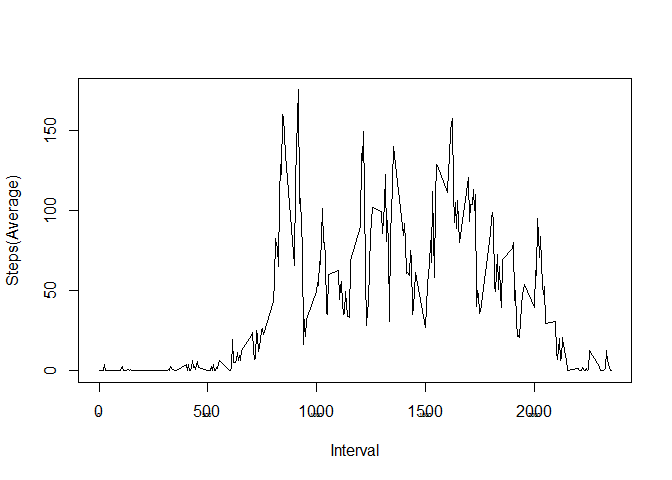
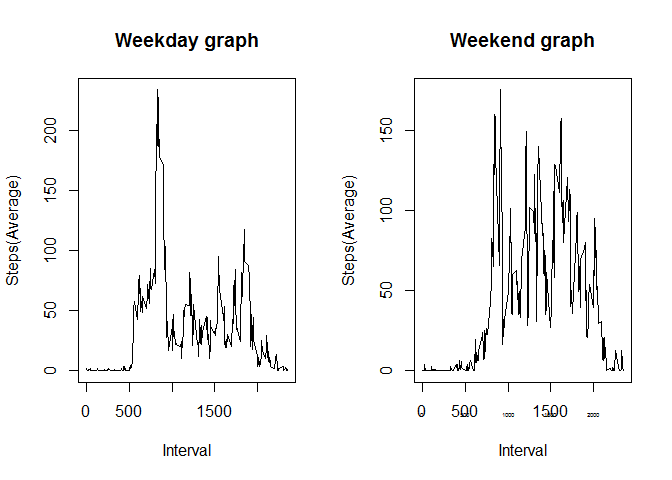
second commit
changes

diff --git a/PA1_template.html b/PA1_template.html
@@ -80,7 +80,7 @@ names(summary) &lt;- c(&quot;    Stat    &quot;, &quot;    Value    &quot;);
 xt&lt;-xtable(summary);
 print(xt, type=&quot;html&quot;)</code></pre>
 <!-- html table generated in R 3.1.2 by xtable 1.7-4 package -->
-<!-- Mon Jan 19 05:38:16 2015 -->
+<!-- Mon Jan 19 05:55:35 2015 -->
 <table border="1">
 <tr> <th>  </th> <th>     
 Stat
@@ -111,8 +111,8 @@ names(activityintervalmean) =  c(&quot;Interval&quot;,&quot;Steps&quot;);
 plot(activityintervalmean$Interval, activityintervalmean$Steps, type = &quot;l&quot;, xlab=&quot;Interval&quot;, ylab= &quot;Steps(Average)&quot;);
 axis(side=1, cex.axis=0.35)</code></pre>
[1 lines of base64/hex data omitted]
-<div id="interval-with-the-highest-average-number-of-steps" class="section level3">
-<h3>Interval with the highest average number of steps</h3>
+<div id="minute-interval-with-the-highest-number-of-steps" class="section level3">
+<h3>5 minute Interval with the highest number of steps</h3>
 <pre class="r"><code>activityintervalmean$Interval[activityintervalmean$Steps==max(activityintervalmean$Steps)]</code></pre>
 <p>[1] 835</p>
 </div>
@@ -122,7 +122,7 @@ axis(side=1, cex.axis=0.35)</code></pre>
 <div id="number-of-records-with-missing-values-is" class="section level3">
 <h3>Number of records with missing values is</h3>
 <pre class="r"><code>sum(is.na(activitydat$steps));</code></pre>
-<p>[1] 2304</p>
+<p>[1] 2304 All NA values are replaced using the average for that time interval</p>
 </div>
 <div id="replace-all-the-na-values-with-intereval-mean.-count-na-values-again" class="section level3">
 <h3>Replace all the NA values with intereval mean. Count NA values again</h3>
@@ -154,7 +154,7 @@ names(summary1) &lt;- c(&quot;     Stat1    &quot;, &quot;    Value1    &quot;);
 xt1&lt;-xtable(summary1);
 print(xt1, type=&quot;html&quot;)</code></pre>
 <!-- html table generated in R 3.1.2 by xtable 1.7-4 package -->
-<!-- Mon Jan 19 05:38:21 2015 -->
+<!-- Mon Jan 19 05:55:38 2015 -->
 <table border="1">
 <tr> <th>  </th> <th>      
 Stat1
@@ -193,11 +193,18 @@ axis(side=1, cex.axis=0.35)</code></pre>
 <pre class="r"><code>activitydatWE &lt;- subset(activitydat, activitydat$weekday == &quot;WEEKEND&quot;);
 activityintervalmeanWE &lt;- aggregate(activitydatWE[,1], list(activitydatWE$interval), mean, na.rm=TRUE);
 names(activityintervalmeanWE) =  c(&quot;Interval&quot;,&quot;Steps&quot;);
+par(mfrow=c(1,2)) 
+
+print(&quot;Week day graph&quot;);</code></pre>
+<p>[1] “Week day graph”</p>
+<pre class="r"><code>plot(activityintervalmeanWD$Interval, activityintervalmeanWD$Steps, type = &quot;l&quot;, xlab=&quot;Interval&quot;, ylab= &quot;Steps(Average)&quot;, main=&quot;Weekday graph&quot;);
+
 print(&quot;Week end graph&quot;);</code></pre>
 <p>[1] “Week end graph”</p>
-<pre class="r"><code>plot(activityintervalmeanWE$Interval, activityintervalmeanWE$Steps, type = &quot;l&quot;, xlab=&quot;Interval&quot;, ylab= &quot;Steps(Average)&quot;);
+<pre class="r"><code>plot(activityintervalmeanWE$Interval, activityintervalmeanWE$Steps, type = &quot;l&quot;, xlab=&quot;Interval&quot;, ylab= &quot;Steps(Average)&quot;, main=&quot;Weekend graph&quot;);
+
 axis(side=1, cex.axis=0.35)</code></pre>
[2 lines of base64/hex data omitted]
 <div id="week-end-graph-looks-different-from-week-day-graph" class="section level4">
 <h4>Week end graph looks different from week day graph</h4>
 </div>

diff --git a/PA1_template.md b/PA1_template.md
@@ -39,7 +39,7 @@ print(xt, type="html")
 ```
 
 <!-- html table generated in R 3.1.2 by xtable 1.7-4 package -->
-<!-- Mon Jan 19 05:38:16 2015 -->
+<!-- Mon Jan 19 05:55:35 2015 -->
 <table border=1>
 <tr> <th>  </th> <th>     Stat     </th> <th>     Value     </th>  </tr>
   <tr> <td align="right"> 1 </td> <td> Mean </td> <td align="right"> 9354.23 </td> </tr>
@@ -57,7 +57,7 @@ axis(side=1, cex.axis=0.35)
 
 ![](PA1_template_files/figure-html/unnamed-chunk-3-1.png) 
 
-### Interval with the highest average number of steps
+### 5 minute Interval with the highest number of steps
 
 ```r
 activityintervalmean$Interval[activityintervalmean$Steps==max(activityintervalmean$Steps)]
@@ -74,7 +74,8 @@ sum(is.na(activitydat$steps));
 ```
 
 [1] 2304
-
+All NA values are replaced using the average for that time interval
+  
 ### Replace all the NA values with intereval mean. Count NA values again
 
 ```r
@@ -129,7 +130,7 @@ print(xt1, type="html")
 ```
 
 <!-- html table generated in R 3.1.2 by xtable 1.7-4 package -->
-<!-- Mon Jan 19 05:38:21 2015 -->
+<!-- Mon Jan 19 05:55:38 2015 -->
 <table border=1>
 <tr> <th>  </th> <th>      Stat1     </th> <th>     Value1     </th>  </tr>
   <tr> <td align="right"> 1 </td> <td> Mean </td> <td align="right"> 10766.19 </td> </tr>
@@ -159,13 +160,24 @@ axis(side=1, cex.axis=0.35)
 activitydatWE <- subset(activitydat, activitydat$weekday == "WEEKEND");
 activityintervalmeanWE <- aggregate(activitydatWE[,1], list(activitydatWE$interval), mean, na.rm=TRUE);
 names(activityintervalmeanWE) =  c("Interval","Steps");
+par(mfrow=c(1,2)) 
+
+print("Week day graph");
+```
+
+[1] "Week day graph"
+
+```r
+plot(activityintervalmeanWD$Interval, activityintervalmeanWD$Steps, type = "l", xlab="Interval", ylab= "Steps(Average)", main="Weekday graph");
+
 print("Week end graph");
 ```
 
 [1] "Week end graph"
 
 ```r
-plot(activityintervalmeanWE$Interval, activityintervalmeanWE$Steps, type = "l", xlab="Interval", ylab= "Steps(Average)");
+plot(activityintervalmeanWE$Interval, activityintervalmeanWE$Steps, type = "l", xlab="Interval", ylab= "Steps(Average)", main="Weekend graph");
+
 axis(side=1, cex.axis=0.35)
 ```
 
